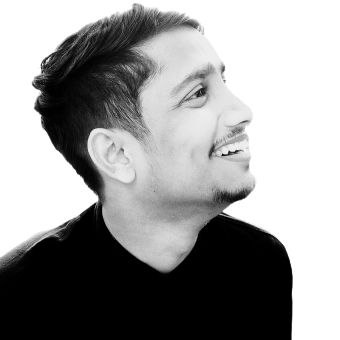
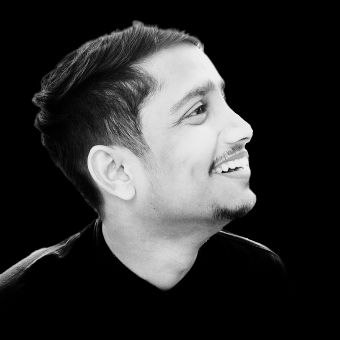
Update Profile Image

diff --git a/index.html b/index.html
@@ -117,7 +117,7 @@
             </div>
         </nav>
         <div class="banner">
-            <img id="profileImg" src="/images/Ashutosh Tripathy (dark bg).jpg" style="border-radius: 50%; height:100px;"/>
+            <img id="profileImg" src="/images/Ashutosh Tripathy.jpg"/>
             <h1 class="authorName">I'M <span style="color: #1565C0;">ASHUTOSH</span>,</h1>
             <div class="subtitle">PYTHONEER | ENGINEER | PANTOMATH</div>
             <div class="socialIcons">

diff --git a/styles/style.scss b/styles/style.scss
@@ -190,9 +190,11 @@ nav{
     color: white;
 }
 
-#profileImg {
-    border-width: 1px;
-    border-style: groove;
+#profileImg { 
+    height: 100px;
+    border: 1px groove;
+    border-radius: 50%;
+    opacity: .7;
     padding: 2px;
     transition: all 0.3s ease;
     &:hover{

diff --git a/styles/style.css b/styles/style.css
@@ -285,8 +285,10 @@ nav ul li:hover {
 }
 
 #profileImg {
-  border-width: 1px;
-  border-style: groove;
+  height: 100px;
+  border: 1px groove;
+  border-radius: 50%;
+  opacity: .7;
   padding: 2px;
   -webkit-transition: all 0.3s ease;
   transition: all 0.3s ease;
